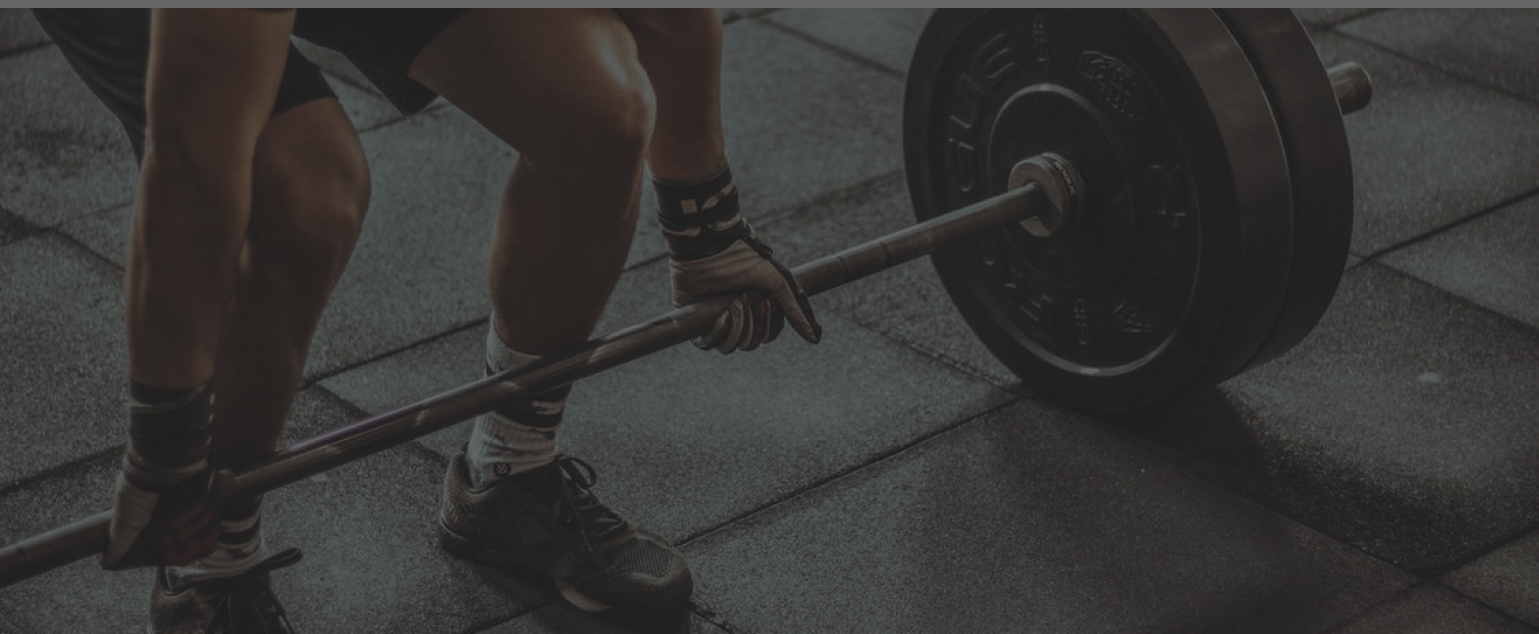
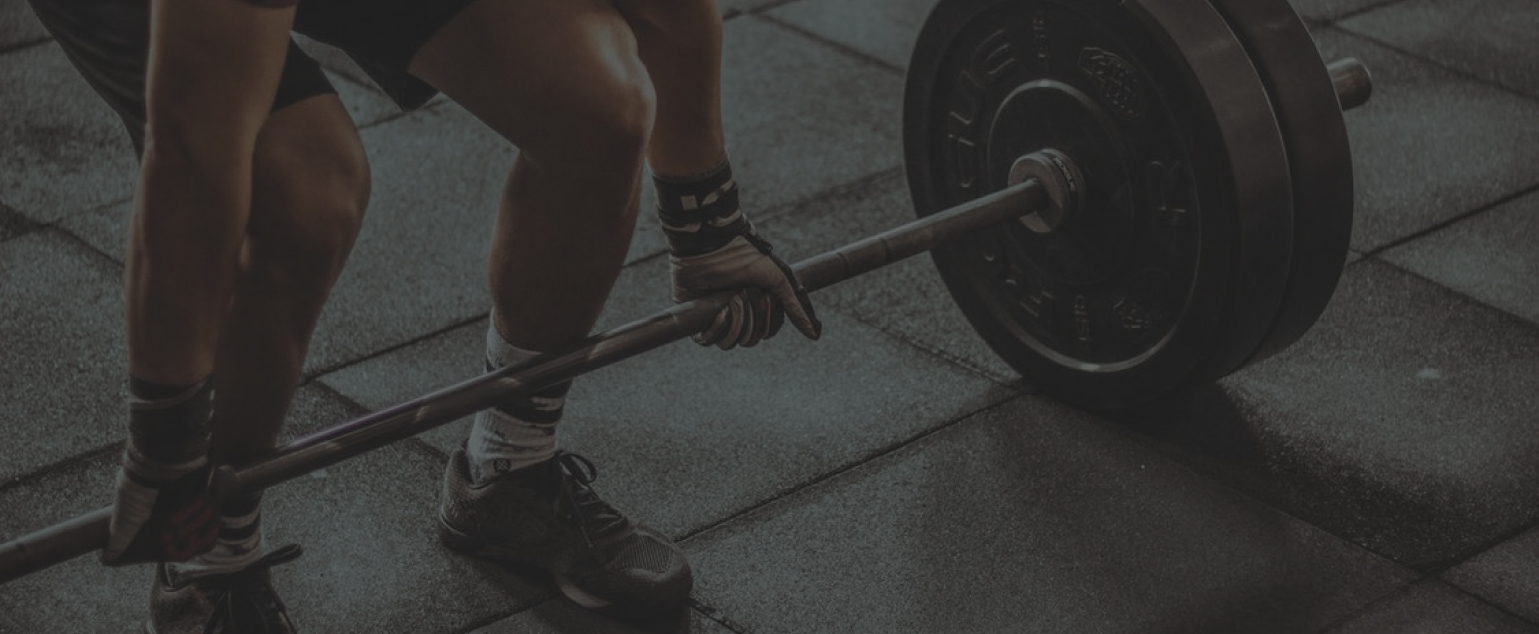
notfound image set

diff --git a/src/Pages/Shared/Header/Header.js b/src/Pages/Shared/Header/Header.js
@@ -23,9 +23,9 @@ const Header = () => {
                         <Navbar.Toggle aria-controls="responsive-navbar-nav" />
                         <Navbar.Collapse id="responsive-navbar-nav">
                             <Nav className="me-auto"> 
-                            </Nav>
+                            </Nav> 
                             <Nav>
-                                <CustomLink to="/home#service">Service</CustomLink>  
+                                <CustomLink as ={Link} to="/home#service">Service</CustomLink>  
                             </Nav>
                             <Nav>
                                 <CustomLink to="/blog">Blog</CustomLink>  
@@ -36,7 +36,7 @@ const Header = () => {
                             <Nav>
                                 {
                                     user ? 
-                                    <Button onClick={handleSignOut}>Sign Out</Button>
+                                    <Button className="signOutBtn" onClick={handleSignOut}>Sign Out</Button>
                                     :
                                     <CustomLink to="/login">Login</CustomLink>
                                 }  

diff --git a/src/Pages/NoteFound/NoteFound.js b/src/Pages/NoteFound/NoteFound.js
@@ -1,9 +1,14 @@
 import React from 'react';
+import NoteFoundImg from '../../images/notfound.png'
 
 const NoteFound = () => {
     return (
         <div>
-            <h2 className='text-center '>Not Found Page</h2>
+            <div className="container">
+                <div className="row">
+                <img width = '100%' height= 'auto' src={NoteFoundImg} alt="" />
+                </div>
+            </div>
         </div>
     );
 };

diff --git a/src/Pages/Home/Services/Services.js b/src/Pages/Home/Services/Services.js
@@ -12,7 +12,7 @@ const Services = () => {
     return (
         <div id="service" className='container'>
             <div className="row">
-                <h2 className='services-title'>My Services</h2>
+                <h2 className='services-title'>My <span>Services</span></h2>
                 <div className="services-container">
                     {
                         services.map(service => <Service

diff --git a/src/Pages/Home/Services/Services.css b/src/Pages/Home/Services/Services.css
@@ -10,7 +10,9 @@
     font-size: 35px;
     text-align: center;
 }
-
+span{
+    color: orange;
+}
 /* make services responsive with media quary */
 @media only screen and (max-width: 576px) {
     .services-container{

diff --git a/src/Pages/Shared/Header/Header.css b/src/Pages/Shared/Header/Header.css
@@ -3,3 +3,8 @@ nav a{
     text-decoration: none;
     padding: 15px;
 }
+.signOutBtn{
+    background: #222 !important;
+    border: none !important;
+    color: orange !important;
+}

diff --git a/README.md b/README.md
@@ -1,8 +1,19 @@
 # Getting Started with Create React App
 
-This project was bootstrapped with [Create React App](https://github.com/facebook/create-react-app).
+# Website link
+[Gym trainer](https://rad-starship-f9e9be.netlify.app/).
 
 ## Available Scripts
+
+## Project Description
+
+- used react firebase hook
+- install react router
+- used react bootstrap and flexbox for style 
+- created banner, service, about, blog,login and NotFound page
+- using useState, useEffect 
+- Responsive home page and about me page
+
 
 In the project directory, you can run:
 
